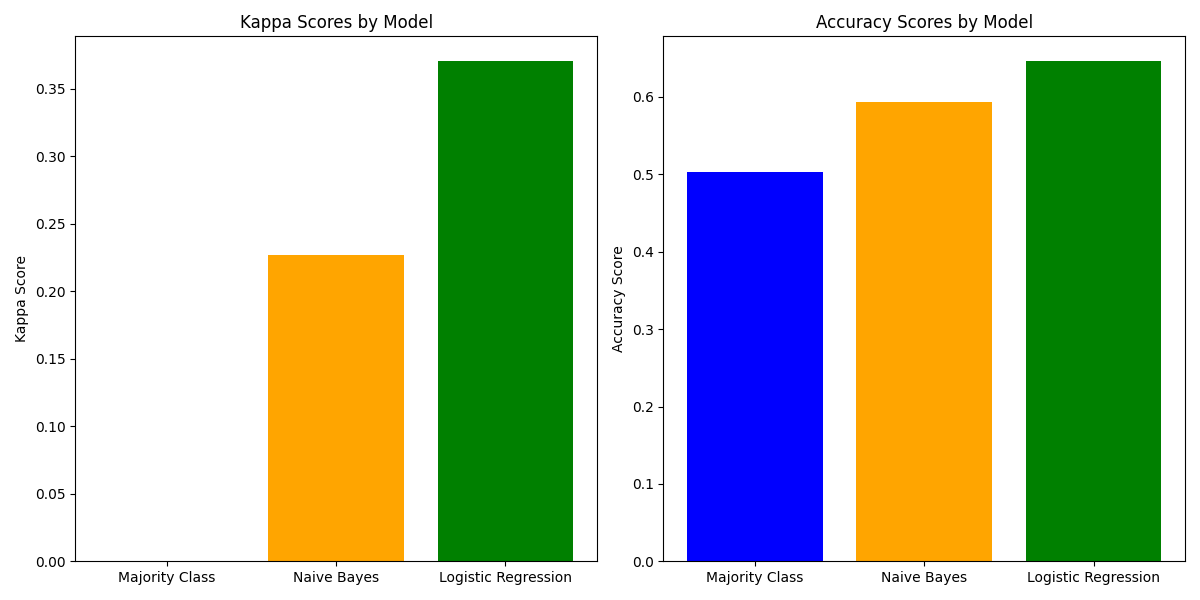
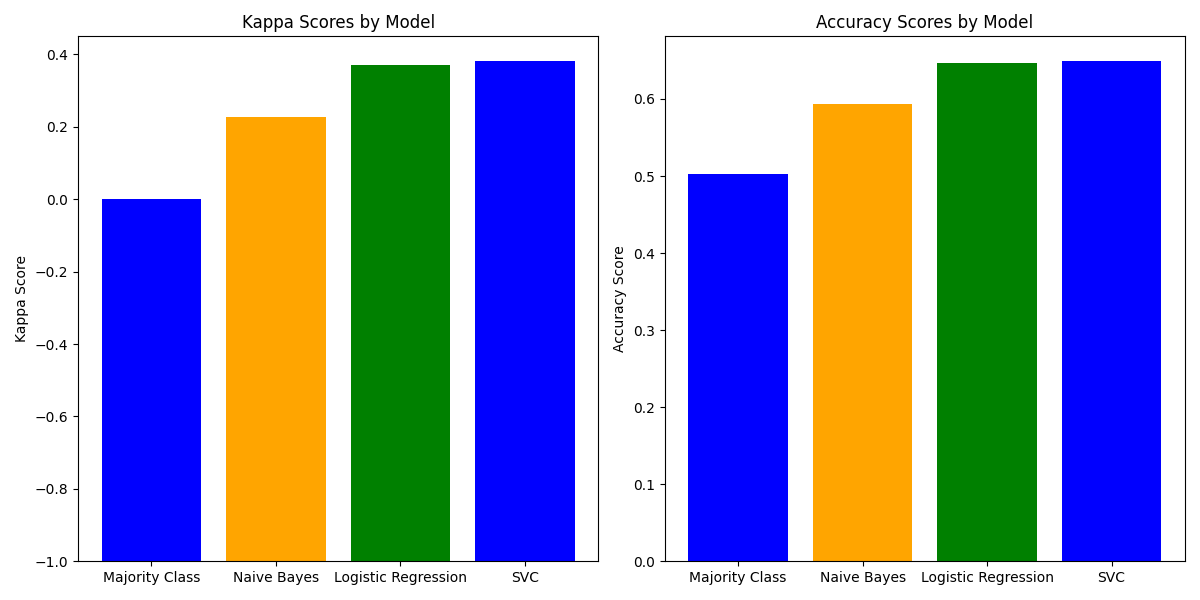
graph stuff

diff --git a/PA3/classifier.py b/PA3/classifier.py
@@ -7,6 +7,7 @@ from sklearn.feature_extraction.text import CountVectorizer, TfidfVectorizer
 from sklearn.naive_bayes import MultinomialNB
 from sklearn.linear_model import LogisticRegression
 from sklearn.model_selection import train_test_split
+from sklearn.svm import SVC
 
 
 # FEATURE REPRESENTATION 
@@ -40,6 +41,11 @@ def train_logistic_regression(X_train, y_train):
     model.fit(X_train, y_train)
     return model
 
+def train_svc(X_train, y_train):
+    model = SVC(kernel='linear')
+    model.fit(X_train, y_train)
+    return model
+
 def test_train_split(X, y, test_size=0.2):
     (X_train, X_test, y_train, y_test) = train_test_split(X, y, test_size=test_size, random_state=1337)
     return X_train, X_test, y_train, y_test
@@ -64,11 +70,11 @@ def agreement_accuracy_score(crowd, gold):
 
 # helper function to plot kappa and accuracy scores for all models (to remove bloat from main)
 def plot_model_kappa_accuracy(kappa_scores, acc_scores):
-    models = ["Majority Class", "Naive Bayes", "Logistic Regression"]
+    models = ["Majority Class", "Naive Bayes", "Logistic Regression", "SVC"]
     x = range(len(models))
     plt.figure(figsize=(12, 6))
     plt.subplot(1, 2, 1)
-    plt.bar(x, kappa_scores, color=['blue', 'orange', 'green'])
+    plt.bar(x,[score + 1 for score in kappa_scores],bottom=-1 , color=['blue', 'orange', 'green'])
     plt.xticks(x, models)
     plt.title('Kappa Scores by Model')
     plt.ylabel('Kappa Score')
@@ -149,9 +155,18 @@ def main():
     print("Logistic Regression Kappa :", lr_kappa)
     print("Logistic Regression Accuracy :", lr_acc)
 
+    # SVC Model, Model nr 3
+    X_train_svc, X_test_svc, y_train_svc, y_test_svc = test_train_split(X_gold, y_gold)
+    svc_model = train_svc(X_train_svc, y_train_svc)
+    svc_predictions = svc_model.predict(X_test_svc)
+    svc_kappa = cohen_kappa_score(svc_predictions, y_test_svc)
+    svc_acc = accuracy_score(svc_predictions, y_test_svc)
+    print("SVC Kappa :", svc_kappa)
+    print("SVC Accuracy :", svc_acc)
+
     # plot all models kappa and accuracy scores using helper
-    kappa_scores = [majority_kappa, nb_kappa, lr_kappa]
-    acc_scores = [majority_acc, nb_acc, lr_acc]
+    kappa_scores = [majority_kappa, nb_kappa, lr_kappa, svc_kappa]
+    acc_scores = [majority_acc, nb_acc, lr_acc, svc_acc]
     plot_model_kappa_accuracy(kappa_scores, acc_scores)
 
 
